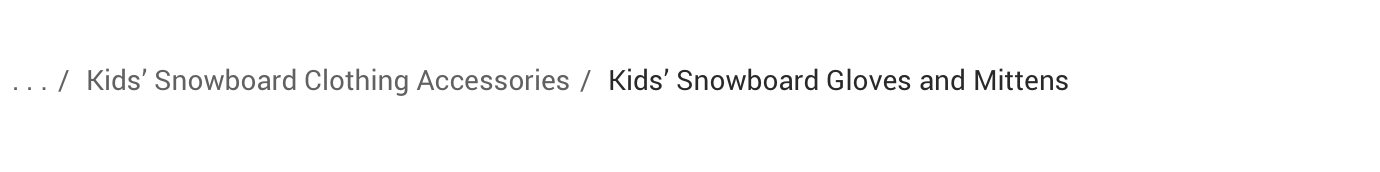
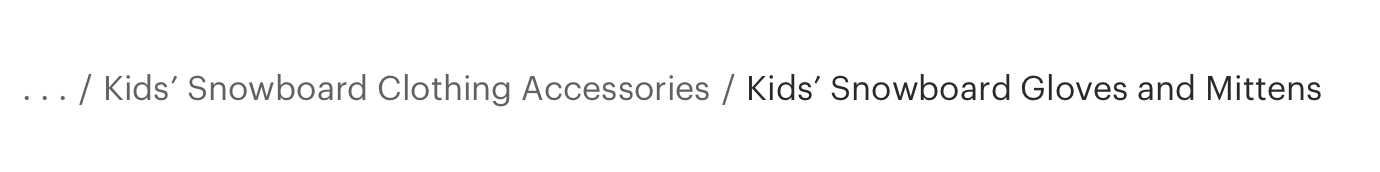
update breadcrumb images

Changed region(s): [[0.0312, 0.407, 0.9659, 0.6105]]

diff --git a/docs/components/breadcrumb/README.md b/docs/components/breadcrumb/README.md
@@ -7,14 +7,14 @@
   "path": [
     {
       "type": "do",
-      "image": "breadcrumb/breadcrumbs_path_do_4-3.png",
+      "image": "breadcrumb/breadcrumbs_path_do_16-9.png",
       "ratio": "16-9",
       "alt": "Image showing proper breadcrumb paths",
       "caption": "show the full path for breadcrumb items whenever possible."
     },
     {
       "type": "dont",
-      "image": "breadcrumb/breadcrumbs_path_dont_4-3.png",
+      "image": "breadcrumb/breadcrumbs_path_outline_dont_16-9.png",
       "ratio": "16-9",
       "alt": "Image showing mixed breadcrumb paths",
       "caption": "show the path that the user takes to arrive at a page."
@@ -23,14 +23,14 @@
   "path_symbol": [
     {
       "type": "do",
-      "image": "breadcrumb/breadcrumbs_path_symbol_do_4-3.png",
+      "image": "breadcrumb/breadcrumbs_path_symbol_do_16-9.png",
       "ratio": "16-9",
       "alt": "breadcrumbs separated with a forward slash",
       "caption": "separate breadcrumb items with the \"/\" symbol, automatically added in CSS."
     },
     {
       "type": "dont",
-      "image": "breadcrumb/breadcrumbs_path_symbol_dont_4-3.png",
+      "image": "breadcrumb/breadcrumbs_path_symbol_outline_dont_16-9.png",
       "ratio": "16-9",
       "alt": "breadcrumbs separated with a right arrow",
       "caption": "create a custom symbol to separate breadcrumb items."
@@ -39,14 +39,14 @@
   "truncation": [
     {
       "type": "do",
-      "image": "breadcrumb/breadcrumbs_truncate_do_4-3.png",
-      "ratio": "4-3",
+      "image": "breadcrumb/breadcrumbs_truncate_do_16-9.png",
+      "ratio": "16-9",
       "alt": "truncated breadcrumbs",
       "caption": "use truncation for breadcrumb path."
     },
     {
       "type": "dont",
-      "image": "breadcrumb/breadcrumbs_truncate_dont_4-3.png",
+      "image": "breadcrumb/breadcrumbs_truncate_outline_dont_16-9.png",
       "ratio": "16-9",
       "alt": "breadcrumbs forcing a linebreak",
       "caption": "break the page title when long breadcrumb path is expanded."
@@ -55,14 +55,14 @@
   "link": [
     {
       "type": "do",
-      "image": "breadcrumb/breadcrumbs_link_do_4-3.png",
+      "image": "breadcrumb/breadcrumbs_link_do_16-9.png",
       "ratio": "16-9",
       "alt": "breadcrumbs links in gray",
       "caption": "use gray color tints for breadcrumb items."
     },
     {
       "type": "dont",
-      "image": "breadcrumb/breadcrumbs_link_dont_4-3.png",
+      "image": "breadcrumb/breadcrumbs_link_outline_dont_16-9.png",
       "ratio": "16-9",
       "alt": "breadcrumbs links in blue",
       "caption": "color breadcrumb items blue."
@@ -240,16 +240,8 @@ Breadcrumbs provide context and a sense of place. This is especially important o
 
 <cdr-img class="cdr-doc-article-img" alt="Breadcrumb hover state is emphasized using link color and underline" :src="$withBase(`/breadcrumb/Spec__Breadcrumb_Long_16-2.png`)" />
 
-// new image:
-https://drive.google.com/file/d/1FQzjHo9U3od-uyGYERFuSWsKqVrvsreS/view?usp=sharing
-
-
 ### Do / Don't
 <do-dont :examples="$page.frontmatter.path" />
-
-// new images
-do: https://drive.google.com/file/d/1XbQeV6WbXxnedSV8SfP1sbdsF0uBUBTZ/view?usp=sharing
-don't: https://drive.google.com/file/d/1eTgIFKUWgklLIHOJNkFPDxkSsjB09mPU/view?usp=sharing
 
 
 ### Truncation
@@ -258,31 +250,17 @@ Indicate hidden links using an ellipsis.
 
 <cdr-img class="cdr-doc-article-img" alt="breadcrumbs truncated with ellipsis" :src="$withBase(`/breadcrumb/Spec__Breadcrumb_Truncated_16-2.png`)" />
 
-// new image
-https://drive.google.com/file/d/13g-wlUn21ZyFCL5kCH3atBMm1bLUPhBh/view?usp=sharing
-
 Truncate breadcrumbs left to right to show the final two links in the trail, so that at least the parent and grandparent are always visible.
 
 <do-dont :examples="$page.frontmatter.truncation" />
-
-// new images
-do: https://drive.google.com/file/d/1tA-AP2c_uleS6GhikQz1GFQ_0_nsBlqw/view?usp=sharing
-don't: https://drive.google.com/file/d/1FgjLrSbb3vcV2vo6fGyqiC46W3jhmBZ9/view?usp=sharing
 
 
 ### Avoid Customization
 
 <do-dont :examples="$page.frontmatter.path_symbol" />
 
-// new images
-do: https://drive.google.com/file/d/18DVmACk7crXJPQYbNhtzPHEmrFr-DLk_/view?usp=sharing
-don't: https://drive.google.com/file/d/16jQSEZ-ER9AP7XSQKvRElgJHxdu-4n7i/view?usp=sharing
 
 <do-dont :examples="$page.frontmatter.link" />
-
-// new images
-do: https://drive.google.com/file/d/1T4CAy3dG4B06xxvDEb5M8DWdHB8AWqtZ/view?usp=sharing
-don't: https://drive.google.com/file/d/1b17meNeuNW-Kv1yQ_8edToyuV6m4WouJ/view?usp=sharing
 
 ## Resources
 
